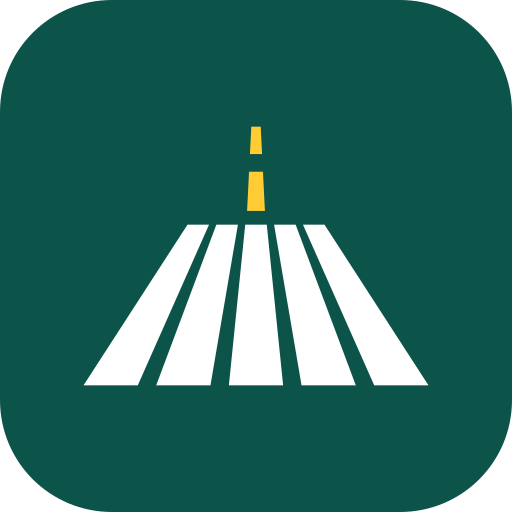
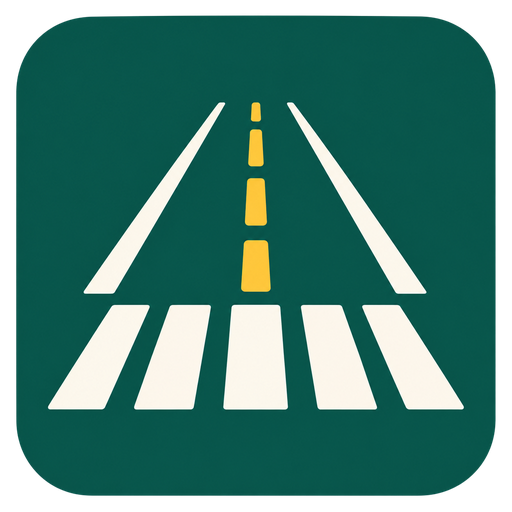
PREFLIGHT: swap the hand-drawn mark for the ChatGPT-generated brand
Replace every hand-drawn SVG and raster mark in site/brand/ with the
ChatGPT-generated brand: the runway seen in perspective with gold
centre dashes on the green #0C5449 tile, at 1024/512/256 px, plus the
16/32/64 px favicons, the .ico (16/32/48) and the brand board.

The mark is generated, not drawn: nobody redraws or edits it; if a
vector is ever needed, trace the PNG with vtracer or potrace.
Rewrite site/brand/README.md to match (files with sizes and uses,
the board, the rule).

Changed region(s): [[0.0938, 0.1875, 0.9062, 0.8125], [0.0, 0.0, 1.0, 1.0]]

diff --git a/site/brand/README.md b/site/brand/README.md
@@ -1,39 +1,40 @@
 # PREFLIGHT brand files
 
-**The mark is a runway threshold seen from the cockpit:** the striped "piano key" markings every aircraft crosses
-before takeoff, with a gold centreline running ahead. Every push crosses PREFLIGHT's checks before it reaches
-production.
+**The mark is a runway seen in perspective:** the white threshold stripes and edge lines converging
+toward a vanishing point, with the gold centreline dashes running ahead, on a Wayne State green
+`#0C5449` tile. It was generated by ChatGPT, and that is the whole provenance story. The mark is
+the only thing in this repo that took off without a checklist.
 
 ## Colours
 | Role | Colour |
 |---|---|
-| Stripes, tile | Wayne State green `#0C5449` |
+| Tile | Wayne State green `#0C5449` |
 | Centreline dashes (the only gold) | Wayne State gold `#FFCC33` |
-| Stripes on the tile or on dark backgrounds | White `#FFFFFF` |
+| Runway markings | White `#FFFFFF` |
+| Board background | Cream `#F4F1EA` |
 | Site accent only, never in the mark | Deep blue `#0E5A7D` |
 
 Gold never sits behind white text.
 
 ## Files
-| File | Use |
-|---|---|
-| `preflight-mark.svg` | The mark on light backgrounds: green stripes, gold dashes |
-| `preflight-mark-white.svg` | The mark on dark or green backgrounds: white stripes, gold dashes |
-| `preflight-mark-mono.svg` | One colour (`currentColor`), for print and single-ink use |
-| `preflight-tile.svg` | The app icon: a green rounded tile with the white runway |
-| `preflight-favicon.svg` | The tile simplified for 32 and 64 px: three stripes and one dash |
-| `preflight-favicon-16.svg` | Hand-hinted on the 16 px grid. One unit is one pixel |
-| `preflight-avatar-512.png` | The GitLab project avatar and the Open Graph image base |
-| `preflight-mark-1024.png`, `preflight-mark-white-1024.png` | Raster marks for slides and documents |
-| `favicon-16.png`, `favicon-32.png`, `favicon-64.png`, `favicon.ico` | Browser favicons; the `.ico` holds all three |
+| File | Size | Use |
+|---|---|---|
+| `preflight-avatar-1024.png` | 1024 × 1024 | The master raster: slides, documents, and the source for any future trace or re-export |
+| `preflight-avatar-512.png` | 512 × 512 | The GitLab project avatar and the Open Graph image |
+| `preflight-avatar-256.png` | 256 × 256 | Header and hero marks on the site (displayed at 2x or less of its CSS size), and the `apple-touch-icon` |
+| `favicon-64.png` | 64 × 64 | The 64 px favicon |
+| `favicon-32.png` | 32 × 32 | The standard browser favicon |
+| `favicon-16.png` | 16 × 16 | The small browser favicon |
+| `favicon.ico` | 16, 32 and 48 px | The classic favicon; the `.ico` holds all three sizes |
+| `preflight-board.png` | 1448 × 1086 | The brand board, below |
 
-## Geometry
-The SVGs are drawn from exact geometry, not traced, so the shapes are symmetric to the hundredth of a unit.
-- **The stripes:** five equal stripes, 352 units wide in total at the base line (y 400 on a 512 grid), with gaps
-  0.34 of a stripe. They converge on a vanishing point at (256, 128) and are cut level at y 236.
-- **The dashes:** two centreline dashes taper with a gentler perspective, so the far one stays visible.
+## The board
+`preflight-board.png` is the reference sheet: the primary mark, the app icon, the horizontal and
+stacked lockups with the tagline "Every push is cleared for takeoff.", the mark on light and dark
+backgrounds, the colour palette, the Lato type scale, the favicon previews, the clear space (a
+quarter of the icon width) and the 16 px minimum size, and the do/don't list. When in doubt, the
+board is the answer.
 
-## Rendering
-The PNGs were rendered with Inkscape 1.4, for example
-`inkscape preflight-tile.svg --export-type=png --export-filename=preflight-avatar-512.png -w 512 -h 512`. The `.ico`
-was built with ImageMagick 7: `magick favicon-16.png favicon-32.png favicon-64.png favicon.ico`.
+## The rule
+The mark is generated, not drawn. Nobody redraws it, edits its geometry, or "improves" it by hand.
+If a vector is ever needed, trace the PNG with vtracer or potrace; do not redraw it.
